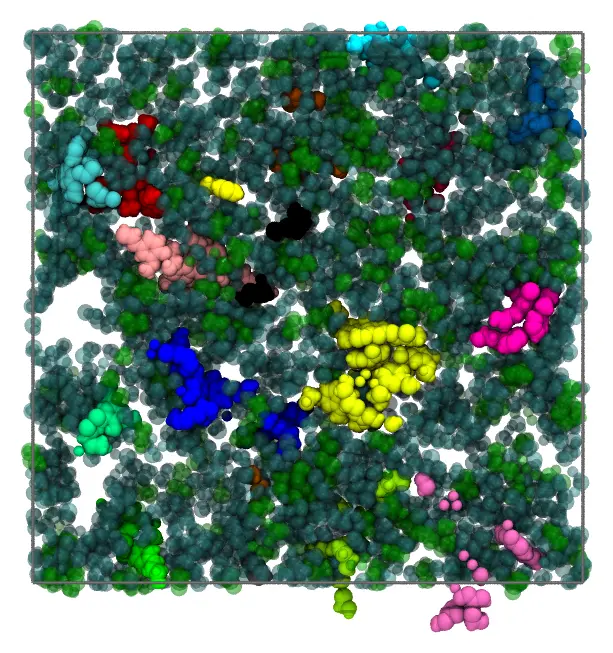
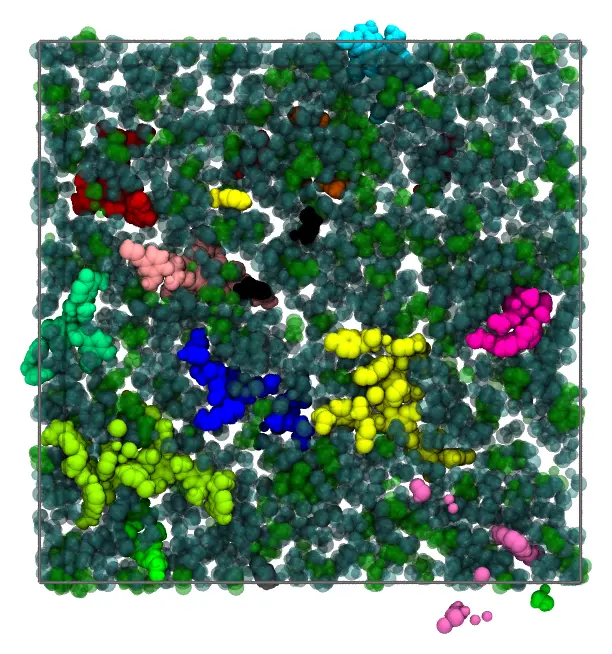
Compression: relax failed steps (breathing), retry the low-density packing
A compression step that does not converge is relaxed: the failed packing is
expanded to one step below the last converged density, keeping its
rearrangements, and packed; the compression resumes from it with half the step
(from the last converged packing if the relaxation fails; up to 20 relaxations).
Undoing the failed step alone stopped the lignin particle at 1.3 g/cm3 at ~90%
of the density in 2 of 3 runs; with relaxations it reached it in 11 of 11.

A packing at the low density that does not converge is tried again at half that
density, up to three times (the gold-polymer one failed in some runs).

The packing of the polymers as rigid molecules no longer warns that it did not
converge (it need not). The lignin tutorial now packs the particle at the
density of lignin, 1.30 g/cm3.

Claude-Session: https://claude.ai/code/session_01CXddAwr4yrj6sB8Dw4cVqQ

diff --git a/docs/src/tutorials/lignin.md b/docs/src/tutorials/lignin.md
@@ -64,7 +64,7 @@ heavy atoms (with their hydrogens):
 structure lignin_L5.pdb
   number 7
   rotatable all
-  inside sphere 0. 0. 0. 34.
+  inside sphere 0. 0. 0. 33.
 end structure
 ```
 
@@ -81,15 +81,13 @@ When packing, the number of bonds found is printed for each oligomer:
 ## The numbers of molecules
 
 - **The particle**: 7 copies of each of the 10 oligomers, 70 molecules of 116,600 g/mol
-  together, 15,463 atoms, in a sphere of 34 Å: 1.19 g/cm³. The density of solid lignin is
-  about 1.3 g/cm³; the particle packs up to about 1.17 g/cm³ (in a sphere of 33 Å, the
-  compression stopped at 90% of the density).
+  together, 15,463 atoms, in a sphere of 33 Å: 1.30 g/cm³, the density of solid lignin.
 - **The solvent**: acetone and water, 30:70 by volume, in a periodic cube of 100 Å. The
-  volume left by the particle, 835,400 Å³, holds 2039 molecules of acetone (0.785 g/mL)
-  and 19,548 of water (1.0 g/mL), at their densities as pure liquids (the excess volume
+  volume left by the particle, 849,500 Å³, holds 2073 molecules of acetone (0.785 g/mL)
+  and 19,877 of water (1.0 g/mL), at their densities as pure liquids (the excess volume
   of the mixture is neglected).
 
-The system has 94,497 atoms.
+The system has 95,824 atoms.
 
 ## The lignin particle
 
@@ -104,8 +102,10 @@ Main.input_file("files/lignin/particle.inp")
 ```
 
 The particle is too dense to pack from a random placement. With `use_compression 0.5`,
-it is first packed at half its density, in a sphere of 42.8 Å (34 × 2^(1/3)), as rigid
-molecules and then flexible, and then compressed to the sphere of 34 Å, in steps.
+it is first packed at half its density, in a sphere of 41.6 Å (33 × 2^(1/3)), as rigid
+molecules and then flexible, and then compressed to the sphere of 33 Å, in steps. At
+this density, some steps do not converge: the packing is then relaxed at a lower density
+and compressed again from there (see [Packing by compression](@ref)).
 
 ### Check the initial placement first
 
@@ -125,13 +125,13 @@ When it looks like this, comment the line again, and run the packing.
 packmol particle.inp
 ```
 
-The packing at half the density, and then the compression, in 13 to 50 steps, take
+The packing at half the density, and then the compression, in 15 to 60 steps, take
 about one minute with 14 threads:
 
 ```
   Compression step    1: density   58.32% of the target, converged (0.3 s)
   ...
-  Compressed to the density of the input in 48 steps (78.6 s).
+  Compressed to the density of the input in 36 steps (67.3 s).
 ```
 
 ![The lignin particle](images/lignin_particle.webp)
@@ -187,9 +187,10 @@ Main.input_file("files/lignin/dispersed.inp")
 packmol dispersed.inp
 ```
 
-The oligomers are first packed as rigid molecules with the solvent (500 loops, ending
-with a few overlaps), and then released, and the packing converges in a few loops: about
-one minute in all.
+In this single run, the oligomers are first packed as rigid molecules, with the solvent,
+and then released and packed flexible. It takes from a few seconds to about a minute
+(when the packing of the rigid oligomers does not converge, it runs for its 500 loops
+before they are released).
 
 ![The dispersed lignin](images/lignin_dispersed.webp)
 
@@ -214,7 +215,7 @@ oligomers = [
     flexible_structure("lignin_$name.pdb";
         number = 7,
         rotatable = :all,
-        constraints = [InsideSphere(origin, 34.)],
+        constraints = [InsideSphere(origin, 33.)],
     )
     for name in names
 ]
@@ -231,8 +232,8 @@ lignin = structure_type("particle.pdb";
     number = 1,
     fixed = (origin, origin),
 )
-water = structure_type("water.pdb"; number = 19548)
-acetone = structure_type("acetone.pdb"; number = 2039)
+water = structure_type("water.pdb"; number = 19877)
+acetone = structure_type("acetone.pdb"; number = 2073)
 system = PackmolSystem([lignin, water, acetone];
     output = "lignin.pdb",
     tolerance = 2.0,

diff --git a/CLAUDE.md b/CLAUDE.md
@@ -114,8 +114,8 @@ flexible at every backbone bond, conformations by `files/gold_polymer/build_poly
 concept, linked), bound to the fixed core, in toluene, 114k atoms: packed with `use_compression 0.5` in 7 min,
 does not converge without it; images by `dev/tutorials/gold_polymer_images.jl`); the lignin particle in acetone/water
 (70 oligomers of spruce lignin, 10 types, built and minimized by `files/lignin/build_lignin.tcl` with LigninBuilder
-and NAMD (bondedCUDA 0), linked; `rotatable all`; particle in a sphere of 34 Å at 1.19 g/cm³ with `use_compression 0.5`
-in 80 s (33 Å stopped at 90%), then the solvent around it fixed; images by `dev/tutorials/lignin_images.jl`); the biomolecular condensate (polymers: 123 chains of (VPGVG)20 in SIRAH, conformations by
+and NAMD (bondedCUDA 0), linked; `rotatable all`; particle in a sphere of 33 Å at 1.30 g/cm³ with `use_compression 0.5`
+in ~1 min (needs the relaxations of the compression: without them it stopped at 90%), then the solvent around it fixed; and dispersed; images by `dev/tutorials/lignin_images.jl`); the biomolecular condensate (polymers: 123 chains of (VPGVG)20 in SIRAH, conformations by
 `files/condensate/build_peptides.jl` (linked as a proof of concept only), in WT4 water: a homogeneous mixture, and a droplet at 400 mg/mL packed with
 `use_compression`, then the water around the fixed chains; images by `dev/tutorials/condensate_images.jl`); the Zika virion; the lipid nanoparticle,
 designed with an AI agent from an illustration (SIRAH, set `packmol_lnp`, files and images by `dev/tutorials/lnp.jl`
@@ -459,8 +459,13 @@ We have full control over the SPGBox.jl package, if some tuning is required. But
       `0.5` or `(0.5, 0.05)`;
       `src/packing/compression.jl`): constraints and cell expanded by fraction^(-1/3) about the cell center
       (origin without PBC), packed, then scaled back in steps (free molecules moved rigidly, polymers by their
-      center; fixed molecules stay) packed with `restart=true`, 100 loops each; step halved on failure (back to the last
-      converged state), ×1.5 after two successes, stop below 5e-4. Constraints: boxes, cubes, spheres,
+      center; fixed molecules stay) packed with `restart=true`, 100 loops each; on failure the system breathes: the
+      failed packing expanded to one step below the last converged density (keeping its rearrangements) and packed
+      (a "relaxation", up to 20), then the step halved (back to the last converged state if the relaxation fails);
+      ×1.5 after two successes, stop below 5e-4. A low-density packing that fails is expanded again (half the
+      density, up to 3 times: the gold-polymer one failed in some runs). Breathing took the lignin particle at
+      1.3 g/cm³ from 1/3 to 11/11 runs (2026-11-20); tested alternatives: no rigid stage (all fail), movebad off or
+      whole-molecule random moves in the compressions (fail), a 20-loop or stall-based rigid stage (gold-polymer fails). Constraints: boxes, cubes, spheres,
       cylinders, ellipsoids, planes; all PBC cells; no restart_from. Limitation: constraints tied to fixed
       molecules (Zika membrane inside its protein shell) are scaled away from them. The condensate droplet (123 chains,
       400 mg/mL): rigid chains jam at ~220 mg/mL, compressed flexible chains reach 400 in 25-40 s (`rotatable 18 1`, bonds from the CONECT records of peptides.pdb).

diff --git a/docs/src/input_files/packing_by_compression.md b/docs/src/input_files/packing_by_compression.md
@@ -25,23 +25,41 @@ values:
 1. The constraints and the periodic cell are expanded by `fraction^(-1/3)` (by 1.26 for
    `0.5`), about the center of the cell (the origin, without periodic boundary
    conditions), and the system is packed there.
+   If the packing at that density does not converge, the geometry is expanded further
+   (to half the density, the molecules with it) and the system packed again from there,
+   up to three times.
 2. At each step, the geometry is scaled by `1 - step` about the same center: the
    constraints, the cell, and the positions of the free molecules, each moved as a whole
    (the center of mass of a molecule is scaled; a polymer moves with the center of its
    monomers). Fixed molecules stay where they are. The system is packed again, from there, for up to 100 loops.
-3. A step that does not converge is undone, and tried again with half the step; after
-   two steps that converge, the step grows by 1.5, up to the initial step. The
+3. When a step does not converge, the system breathes: the packing of the failed step is
+   expanded to one step below the last density that converged, and packed there (a
+   relaxation), keeping the rearrangements the failed step made. The compression
+   resumes from the relaxed packing, with half the step (if the relaxation does not
+   converge either, or after 20 relaxations, it resumes from the last converged packing).
+   After two steps that converge, the step grows by 1.5, up to the initial step. The
    compression ends at the geometry of the input, or stops (with a warning, the output
    at the density reached) if a step smaller than 0.0005 does not converge.
 
 The report shows each step:
 
 ```
-  Compression step    1: density   58.32% of the target, not converged (4.3 s)
-  Compression step    2: density   53.95% of the target, converged (0.2 s)
+  Compression step    1: density   58.32% of the target, converged (0.8 s)
+  Compression step    2: density   68.02% of the target, converged (1.5 s)
+  Compression step    3: density   79.33% of the target, converged (3.0 s)
+  Compression step    4: density   92.53% of the target, not converged (7.6 s)
+  Relaxation    1:        density   68.02% of the target, converged (0.1 s)
+  Compression step    5: density   73.39% of the target, converged (0.1 s)
   ...
-  Compressed to the density of the input in 20 steps (41.3 s).
+  Compression step   15: density  100.00% of the target, converged (1.9 s)
+
+  Compressed to the density of the input in 15 steps (28.0 s).
 ```
+
+Undoing a failed step, rather than relaxing it, stopped the compression of the particle of
+the [Lignin particle in acetone and water](@ref) tutorial at about 90% of the density in
+two of three runs: the next steps failed at the same configuration. With the
+relaxations, it reached the density in all of 11 runs.
 
 The compression works with rigid molecules and with [Polymers](@ref). With polymers
 it goes much further: the chains of the condensate of the tutorial

diff --git a/CHANGELOG.md b/CHANGELOG.md
@@ -32,9 +32,18 @@ Version 100.1.0-DEV
   atoms with other heavy neighbors, and single for sure from the numbers of bonds of the
   atoms (bonds between two carbon or nitrogen atoms with fewer than four bonds do not
   turn, but those between aromatic rings). For all-atom structures with all their hydrogens.
+- ![ENHANCEMENT][badge-enhancement] Packing by compression: a step that does not converge
+  is relaxed (expanded below the last converged density, keeping its rearrangements, and
+  packed) before the compression resumes with half the step, instead of being discarded;
+  and a packing at the low density that does not converge is tried again at half that
+  density, up to three times. Dense systems that stopped at ~90% of the density (a lignin
+  particle at 1.3 g/cm³) now reach it.
+- ![ENHANCEMENT][badge-enhancement] The packing of polymers and flexible molecules as rigid
+  molecules, before they are released, no longer warns that it did not converge (it need
+  not converge).
 - ![INFO][badge-info] Documentation: the tutorial "Lignin particle in acetone and water": 70
   flexible oligomers of spruce lignin (built with LigninBuilder), with `rotatable all`,
-  packed by compression at 1.19 g/cm³, then solvated; and dispersed in the solvent.
+  packed by compression at 1.30 g/cm³, then solvated; and dispersed in the solvent.
 - ![INFO][badge-info] Documentation: the flexible molecules (rotatable bonds, polymers) and the
   packing by compression in "New in Packmol.jl" of the home page.
 - ![INFO][badge-info] Documentation: the tutorial "Polymer-capped gold nanoparticle": 57
